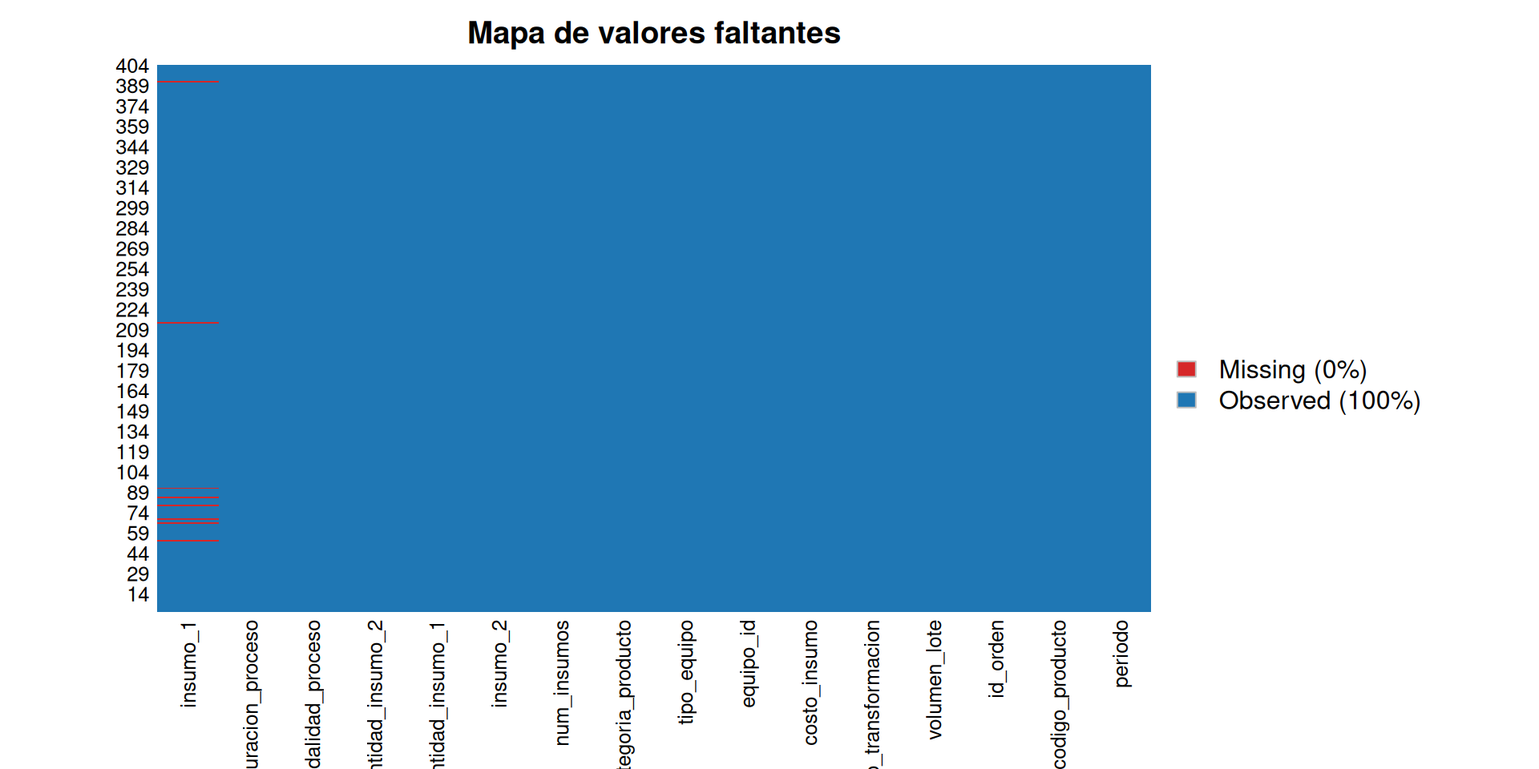
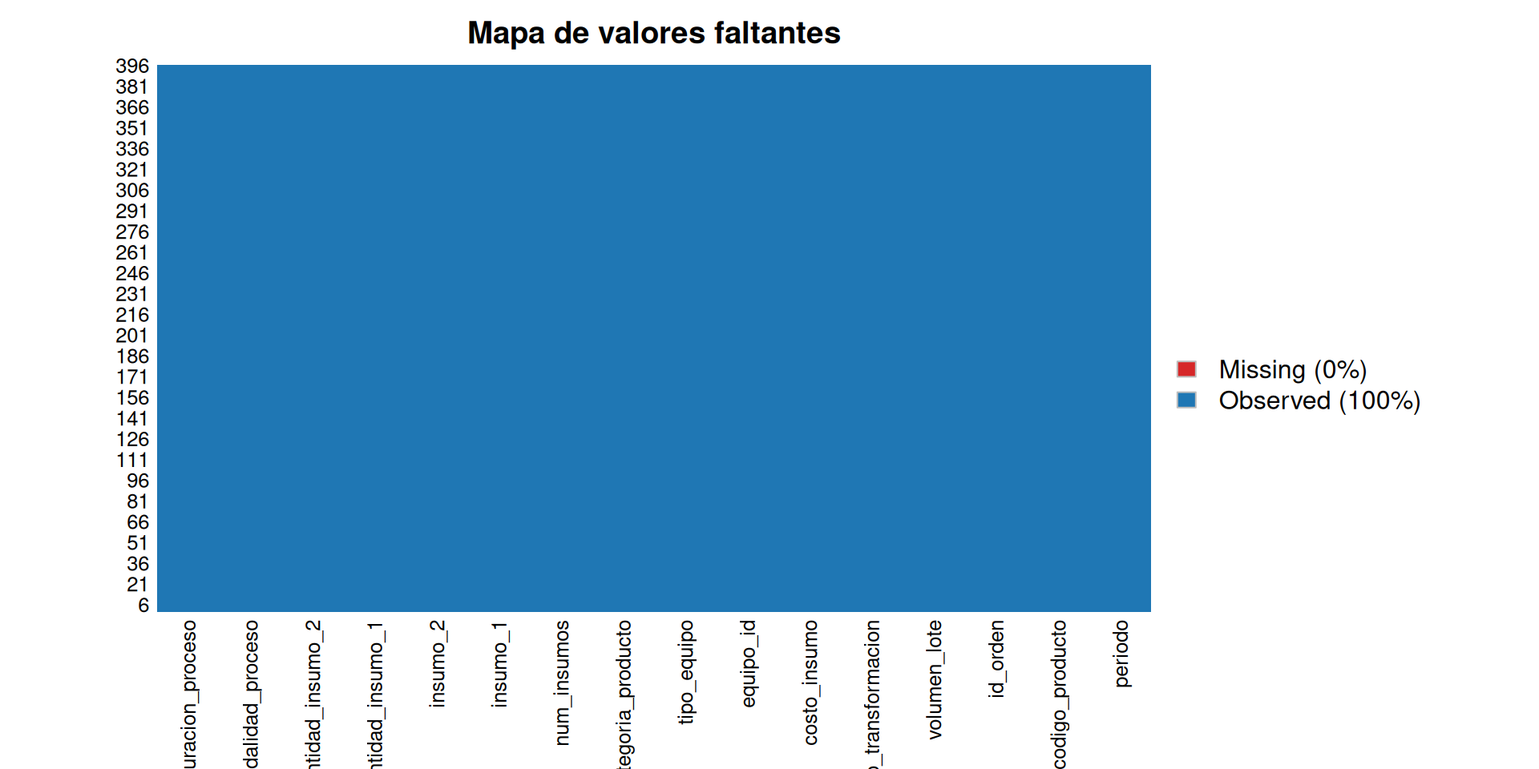
lunes

diff --git a/docs/metodologia.html b/docs/metodologia.html
@@ -181,8 +181,8 @@ div.csl-indent {
 <li class="chapter" data-level="4.2.1" data-path="metodologia.html"><a href="metodologia.html#carga-del-conjunto-de-datos"><i class="fa fa-check"></i><b>4.2.1</b> Carga del conjunto de datos</a></li>
 <li class="chapter" data-level="4.2.2" data-path="metodologia.html"><a href="metodologia.html#verificaci%C3%B3n-de-la-lectura"><i class="fa fa-check"></i><b>4.2.2</b> Verificación de la lectura</a></li>
 <li class="chapter" data-level="4.2.3" data-path="metodologia.html"><a href="metodologia.html#conversi%C3%B3n-de-tipos"><i class="fa fa-check"></i><b>4.2.3</b> Conversión de tipos</a></li>
-<li class="chapter" data-level="4.2.4" data-path="metodologia.html"><a href="metodologia.html#identificaci%C3%B3n-de-valores-faltantes"><i class="fa fa-check"></i><b>4.2.4</b> Identificación de valores faltantes</a></li>
-<li class="chapter" data-level="4.2.5" data-path="metodologia.html"><a href="metodologia.html#eliminaci%C3%B3n-de-errores-de-digitaci%C3%B3n-confirmados"><i class="fa fa-check"></i><b>4.2.5</b> Eliminación de errores de digitación confirmados</a></li>
+<li class="chapter" data-level="4.2.4" data-path="metodologia.html"><a href="metodologia.html#eliminaci%C3%B3n-de-errores-de-digitaci%C3%B3n-confirmados"><i class="fa fa-check"></i><b>4.2.4</b> Eliminación de errores de digitación confirmados</a></li>
+<li class="chapter" data-level="4.2.5" data-path="metodologia.html"><a href="metodologia.html#identificaci%C3%B3n-de-valores-faltantes"><i class="fa fa-check"></i><b>4.2.5</b> Identificación de valores faltantes</a></li>
 <li class="chapter" data-level="4.2.6" data-path="metodologia.html"><a href="metodologia.html#advertencias-sobre-inconsistencias-estructurales"><i class="fa fa-check"></i><b>4.2.6</b> Advertencias sobre inconsistencias estructurales</a></li>
 </ul></li>
 </ul></li>
@@ -230,7 +230,7 @@ div.csl-indent {
 <h1><span class="header-section-number">Capítulo 4</span> Metodología<a href="metodologia.html#metodologia" class="anchor-section" aria-label="Anchor link to header"></a></h1>
 <div id="diseño-del-estudio" class="section level2 hasAnchor" number="4.1">
 <h2><span class="header-section-number">4.1</span> Diseño del estudio<a href="metodologia.html#dise%C3%B1o-del-estudio" class="anchor-section" aria-label="Anchor link to header"></a></h2>
-<p>Este trabajo corresponde a un <strong>estudio observacional, retrospectivo y transversal</strong> sobre el proceso productivo de cápsulas duras de una empresa farmacéutica colombiana. Es observacional porque no se manipulan variables sobre el proceso; retrospectivo porque utiliza registros generados durante operaciones ya ejecutadas; y transversal porque captura información de un período acotado sin seguimiento longitudinal de unidades individuales.</p>
+<p>Este trabajo corresponde a un <strong>estudio observacional, retrospectivo y transversal</strong> sobre el proceso productivo de una empresa farmacéutica colombiana. Es observacional porque no se manipulan variables sobre el proceso; retrospectivo porque utiliza registros generados durante operaciones ya ejecutadas; y transversal porque captura información de un período acotado sin seguimiento longitudinal de unidades individuales.</p>
 <p>La muestra está conformada por 404 órdenes de producción registradas en el sistema ERP durante el período de estudio, extraídas mediante consultas SQL sobre las tablas transaccionales de órdenes, consumos y tiempos, junto con la tabla de costos por período y el maestro de productos. La consolidación se realizó en Excel y posteriormente se exportó a formato CSV para garantizar reproducibilidad y trazabilidad. Las 404 órdenes constituyen una muestra representativa del proceso productivo, en la medida en que cubren la variedad de productos, equipos, modalidades y tamaños de lote habituales del proceso.</p>
 <p><strong>Limitaciones conocidas del dataset:</strong></p>
 <ul>
@@ -240,14 +240,13 @@ div.csl-indent {
 <li><strong>Base de valoración:</strong> los costos se expresan en unidades monetarias por producto, calculados según la tarifa de costeo del período reportado.</li>
 </ul>
 <p><strong>Aspectos éticos y de confidencialidad.</strong> Los datos provienen de operaciones industriales reales y contienen información sensible para la empresa. Por esta razón, los identificadores de producto, máquina e insumo fueron anonimizados en origen mediante codificación alfanumérica que preserva la estructura analítica sin revelar identidades comerciales.</p>
-<p><strong>Tratamiento de valores atípicos.</strong> El presente capítulo aborda únicamente la limpieza de errores de digitación confirmados a priori con el área de operaciones, correspondientes a registros con <code>num_insumos = 0</code>. La detección e interpretación de valores atípicos estadísticos se realiza en el capítulo de análisis exploratorio, con base en boxplots y estadísticos robustos (rango intercuartílico). La decisión final sobre retención, eliminación o análisis separado de dichos valores se toma tras consulta con el área de operaciones, que permite distinguir errores de registro, eventos excepcionales y variabilidad legítima del proceso.</p>
 <p><strong>Software.</strong> Los análisis se realizan en R versión 4 o superior, con los paquetes <code>tidyverse</code> para manipulación y visualización, <code>Amelia</code> para diagnóstico de valores faltantes, <code>janitor</code> como guardia defensiva en limpieza de nombres, <code>kableExtra</code> para presentación de tablas, y <code>patchwork</code> y <code>gridExtra</code> para composición de gráficos. Todos los análisis son completamente reproducibles a partir del código fuente disponible en el repositorio.</p>
 </div>
 <div id="extracción-transformación-y-carga-etl" class="section level2 hasAnchor" number="4.2">
 <h2><span class="header-section-number">4.2</span> Extracción, transformación y carga (ETL)<a href="metodologia.html#extracci%C3%B3n-transformaci%C3%B3n-y-carga-etl" class="anchor-section" aria-label="Anchor link to header"></a></h2>
 <div id="carga-del-conjunto-de-datos" class="section level3 hasAnchor" number="4.2.1">
 <h3><span class="header-section-number">4.2.1</span> Carga del conjunto de datos<a href="metodologia.html#carga-del-conjunto-de-datos" class="anchor-section" aria-label="Anchor link to header"></a></h3>
-<p>El archivo CSV exportado desde el consolidado Excel utiliza punto y coma (<code>;</code>) como separador de columnas y punto (<code>.</code>) como separador decimal. Dado que <code>read_csv2</code> asume coma como decimal y <code>read_csv</code> asume coma como separador, se utiliza <code>read_delim</code> con especificación explícita de ambos parámetros.</p>
+<p>El archivo CSV exportado desde el consolidado Excel utiliza punto y coma (<code>;</code>) como separador de columnas y punto (<code>.</code>) como separador decimal.</p>
 <div class="sourceCode" id="cb1"><pre class="sourceCode r"><code class="sourceCode r"><span id="cb1-1"><a href="metodologia.html#cb1-1" tabindex="-1"></a><span class="fu">library</span>(tidyverse)</span>
 <span id="cb1-2"><a href="metodologia.html#cb1-2" tabindex="-1"></a><span class="fu">library</span>(janitor)</span>
 <span id="cb1-3"><a href="metodologia.html#cb1-3" tabindex="-1"></a><span class="fu">library</span>(Amelia)</span>
@@ -320,11 +319,16 @@ div.csl-indent {
 ##   ..   duracion_proceso = col_double()
 ##   .. )
 ##  - attr(*, &quot;problems&quot;)=&lt;externalptr&gt;</code></pre>
-<p>El conjunto de datos contiene 404 órdenes de producción y 16 variables, conforme a la definición presentada en el capítulo del diccionario de datos. Los costos <code>costo_transformacion</code> y <code>costo_insumo</code>, así como las cantidades de insumo, se leyeron correctamente como numéricos de tipo <code>double</code>. En la siguiente etapa se ajustan los tipos para que las variables categóricas reflejen su naturaleza estadística real.</p>
+<p>El conjunto de datos contiene 404 órdenes de producción y 16 variables, conforme a la definición presentada en el capítulo del diccionario de datos. Los costos <code>costo_transformacion</code> y <code>costo_insumo</code>, así como las cantidades de insumo, se leyeron correctamente como numéricos de tipo <code>double</code>. En la siguiente etapa se ajustan los tipos para que las variables categóricas reflejen su naturaleza estadística real.
+El significado, tipo analítico, unidad de medida y rol de cada una de las 16 variables se documenta en detalle en el siguiente capítulo.</p>
 </div>
 <div id="conversión-de-tipos" class="section level3 hasAnchor" number="4.2.3">
 <h3><span class="header-section-number">4.2.3</span> Conversión de tipos<a href="metodologia.html#conversi%C3%B3n-de-tipos" class="anchor-section" aria-label="Anchor link to header"></a></h3>
-<p>La inspección de la estructura revela que varias variables están almacenadas con tipos que no corresponden a su naturaleza analítica. La variable <code>periodo</code> viene como entero <code>YYYYMM</code>; en análisis posteriores se podrá convertir a fecha para análisis de temporalidad, pero en el presente estudio se conserva como texto, dado que no se realizarán análisis de series de tiempo. La variable <code>num_insumos</code>, restringida a los valores 0, 1 y 2, se trata como factor ordenado. Las variables <code>tipo_equipo</code>, <code>categoria_producto</code>, <code>equipo_id</code>, <code>modalidad_proceso</code>, <code>insumo_1</code> e <code>insumo_2</code> se convierten a factor para los análisis inferenciales posteriores. La variable <code>insumo_2</code> requiere además una recodificación explícita de los valores faltantes a la categoría <code>sin_segundo_insumo</code>, dado que el <code>NA</code> no representa un dato perdido sino una característica estructural de la orden (cuando <code>num_insumos &lt; 2</code>).</p>
+<p>La inspección de la estructura revela que varias variables están almacenadas con tipos que no corresponden a su naturaleza analítica.
+- La variable <code>periodo</code> viene como entero <code>YYYYMM</code>; en análisis posteriores se podrá convertir a fecha para análisis de temporalidad, pero en el presente estudio se conserva como texto, dado que no se realizarán análisis de series de tiempo.
+- La variable <code>num_insumos</code>, restringida a los valores 0, 1 y 2, se trata como factor ordenado.
+- Las variables <code>tipo_equipo</code>, <code>categoria_producto</code>, <code>equipo_id</code>, <code>modalidad_proceso</code>, <code>insumo_1</code> e <code>insumo_2</code> se convierten a factor para los análisis inferenciales posteriores.
+- La variable <code>insumo_2</code> requiere además una recodificación explícita de los valores faltantes a la categoría <code>sin_segundo_insumo</code>, dado que el <code>NA</code> no representa un dato perdido sino una característica estructural de la orden (cuando <code>num_insumos &lt; 2</code>).</p>
 <div class="sourceCode" id="cb10"><pre class="sourceCode r"><code class="sourceCode r"><span id="cb10-1"><a href="metodologia.html#cb10-1" tabindex="-1"></a>datos <span class="ot">&lt;-</span> datos <span class="sc">%&gt;%</span></span>
 <span id="cb10-2"><a href="metodologia.html#cb10-2" tabindex="-1"></a>  <span class="fu">mutate</span>(</span>
 <span id="cb10-3"><a href="metodologia.html#cb10-3" tabindex="-1"></a>    <span class="at">periodo =</span> <span class="fu">as.character</span>(periodo),</span>
@@ -356,11 +360,34 @@ div.csl-indent {
 ##  $ modalidad_proceso   : Factor w/ 3 levels &quot;X&quot;,&quot;Y&quot;,&quot;Z&quot;: 1 2 2 1 1 1 1 1 2 1 ...
 ##  $ duracion_proceso    : num [1:404] 300 98 100 62 91 ...</code></pre>
 </div>
-<div id="identificación-de-valores-faltantes" class="section level3 hasAnchor" number="4.2.4">
-<h3><span class="header-section-number">4.2.4</span> Identificación de valores faltantes<a href="metodologia.html#identificaci%C3%B3n-de-valores-faltantes" class="anchor-section" aria-label="Anchor link to header"></a></h3>
-<p>Identificamos los valores faltantes por columna mediante dos enfoques complementarios. El primero entrega el conteo absoluto por variable; el segundo proporciona una visualización del patrón de ausencias.</p>
+<div id="eliminación-de-errores-de-digitación-confirmados" class="section level3 hasAnchor" number="4.2.4">
+<h3><span class="header-section-number">4.2.4</span> Eliminación de errores de digitación confirmados<a href="metodologia.html#eliminaci%C3%B3n-de-errores-de-digitaci%C3%B3n-confirmados" class="anchor-section" aria-label="Anchor link to header"></a></h3>
+<p>Durante la revisión preliminar del dataset se identificaron registros con <code>num_insumos = 0</code>. Tras consulta con el área de operaciones, se confirmó que se trata de errores de digitación en el registro del ERP: toda orden de producción real requiere al menos un insumo activo, por lo que <code>num_insumos = 0</code> no corresponde a una configuración operativa válida del proceso. En consecuencia, estos registros se eliminan antes del análisis exploratorio.</p>
+<p>Primero cuantificamos cuántos casos afectan:</p>
 <div class="sourceCode" id="cb12"><pre class="sourceCode r"><code class="sourceCode r"><span id="cb12-1"><a href="metodologia.html#cb12-1" tabindex="-1"></a>datos <span class="sc">%&gt;%</span></span>
-<span id="cb12-2"><a href="metodologia.html#cb12-2" tabindex="-1"></a>  <span class="fu">summarise</span>(<span class="fu">across</span>(<span class="fu">everything</span>(), <span class="sc">~</span> <span class="fu">sum</span>(<span class="fu">is.na</span>(.)), <span class="at">.names =</span> <span class="st">&quot;NA_{.col}&quot;</span>))</span></code></pre></div>
+<span id="cb12-2"><a href="metodologia.html#cb12-2" tabindex="-1"></a>  <span class="fu">count</span>(num_insumos) <span class="sc">%&gt;%</span></span>
+<span id="cb12-3"><a href="metodologia.html#cb12-3" tabindex="-1"></a>  <span class="fu">mutate</span>(<span class="at">porcentaje =</span> <span class="fu">round</span>(n <span class="sc">/</span> <span class="fu">sum</span>(n) <span class="sc">*</span> <span class="dv">100</span>, <span class="dv">2</span>))</span></code></pre></div>
+<pre><code>## # A tibble: 3 × 3
+##   num_insumos     n porcentaje
+##   &lt;ord&gt;       &lt;int&gt;      &lt;dbl&gt;
+## 1 0               8       1.98
+## 2 1             271      67.1 
+## 3 2             125      30.9</code></pre>
+<p>Se identificaron 8 órdenes con número de insumos en cero (2% del total de registros) .</p>
+<p>A continuación se eliminan los registros con <code>num_insumos = 0</code>:</p>
+<div class="sourceCode" id="cb14"><pre class="sourceCode r"><code class="sourceCode r"><span id="cb14-1"><a href="metodologia.html#cb14-1" tabindex="-1"></a>datos <span class="sc">%&gt;%</span></span>
+<span id="cb14-2"><a href="metodologia.html#cb14-2" tabindex="-1"></a>  <span class="fu">filter</span>(num_insumos <span class="sc">!=</span> <span class="dv">0</span>) <span class="sc">%&gt;%</span></span>
+<span id="cb14-3"><a href="metodologia.html#cb14-3" tabindex="-1"></a>  <span class="fu">mutate</span>(<span class="at">num_insumos =</span> <span class="fu">droplevels</span>(num_insumos)) <span class="ot">-&gt;</span> datos</span>
+<span id="cb14-4"><a href="metodologia.html#cb14-4" tabindex="-1"></a></span>
+<span id="cb14-5"><a href="metodologia.html#cb14-5" tabindex="-1"></a><span class="fu">dim</span>(datos)</span></code></pre></div>
+<pre><code>## [1] 396  16</code></pre>
+<p>Después de la eliminación, el dataset analítico queda conformado por 396 órdenes con al menos un insumo registrado.</p>
+</div>
+<div id="identificación-de-valores-faltantes" class="section level3 hasAnchor" number="4.2.5">
+<h3><span class="header-section-number">4.2.5</span> Identificación de valores faltantes<a href="metodologia.html#identificaci%C3%B3n-de-valores-faltantes" class="anchor-section" aria-label="Anchor link to header"></a></h3>
+<p>Identificamos los valores faltantes por columna mediante dos enfoques complementarios. El primero entrega el conteo absoluto por variable; el segundo proporciona una visualización del patrón de ausencias.</p>
+<div class="sourceCode" id="cb16"><pre class="sourceCode r"><code class="sourceCode r"><span id="cb16-1"><a href="metodologia.html#cb16-1" tabindex="-1"></a>datos <span class="sc">%&gt;%</span></span>
+<span id="cb16-2"><a href="metodologia.html#cb16-2" tabindex="-1"></a>  <span class="fu">summarise</span>(<span class="fu">across</span>(<span class="fu">everything</span>(), <span class="sc">~</span> <span class="fu">sum</span>(<span class="fu">is.na</span>(.)), <span class="at">.names =</span> <span class="st">&quot;NA_{.col}&quot;</span>))</span></code></pre></div>
 <pre><code>## # A tibble: 1 × 16
 ##   NA_periodo NA_codigo_producto NA_id_orden NA_volumen_lote
 ##        &lt;int&gt;              &lt;int&gt;       &lt;int&gt;           &lt;int&gt;
@@ -370,32 +397,10 @@ div.csl-indent {
 ## #   NA_num_insumos &lt;int&gt;, NA_insumo_1 &lt;int&gt;, NA_insumo_2 &lt;int&gt;,
 ## #   NA_cantidad_insumo_1 &lt;int&gt;, NA_cantidad_insumo_2 &lt;int&gt;,
 ## #   NA_modalidad_proceso &lt;int&gt;, NA_duracion_proceso &lt;int&gt;</code></pre>
-<div class="sourceCode" id="cb14"><pre class="sourceCode r"><code class="sourceCode r"><span id="cb14-1"><a href="metodologia.html#cb14-1" tabindex="-1"></a><span class="fu">missmap</span>(datos, <span class="at">main =</span> <span class="st">&quot;Mapa de valores faltantes&quot;</span>, </span>
-<span id="cb14-2"><a href="metodologia.html#cb14-2" tabindex="-1"></a>        <span class="at">col =</span> <span class="fu">c</span>(<span class="st">&quot;#d62728&quot;</span>, <span class="st">&quot;#1f77b4&quot;</span>), <span class="at">legend =</span> <span class="cn">TRUE</span>)</span></code></pre></div>
+<div class="sourceCode" id="cb18"><pre class="sourceCode r"><code class="sourceCode r"><span id="cb18-1"><a href="metodologia.html#cb18-1" tabindex="-1"></a><span class="fu">missmap</span>(datos, <span class="at">main =</span> <span class="st">&quot;Mapa de valores faltantes&quot;</span>, </span>
+<span id="cb18-2"><a href="metodologia.html#cb18-2" tabindex="-1"></a>        <span class="at">col =</span> <span class="fu">c</span>(<span class="st">&quot;#d62728&quot;</span>, <span class="st">&quot;#1f77b4&quot;</span>), <span class="at">legend =</span> <span class="cn">TRUE</span>)</span></code></pre></div>
 <p><img src="libro-maestria-estadistica-aplicada_files/figure-html/na-mapa-1.png" alt="" width="90%" style="display: block; margin: auto;" /></p>
 <p>El conteo y el mapa de ausencias permiten verificar si existen valores faltantes que requieran tratamiento. Conforme a las consultas SQL de origen, los únicos <code>NA</code> legítimos corresponden a <code>insumo_2</code> cuando <code>num_insumos &lt; 2</code>, los cuales fueron recodificados en la etapa anterior como una categoría explícita.</p>
-</div>
-<div id="eliminación-de-errores-de-digitación-confirmados" class="section level3 hasAnchor" number="4.2.5">
-<h3><span class="header-section-number">4.2.5</span> Eliminación de errores de digitación confirmados<a href="metodologia.html#eliminaci%C3%B3n-de-errores-de-digitaci%C3%B3n-confirmados" class="anchor-section" aria-label="Anchor link to header"></a></h3>
-<p>Durante la revisión preliminar del dataset se identificaron registros con <code>num_insumos = 0</code>. Tras consulta con el área de operaciones, se confirmó que se trata de errores de digitación en el registro del ERP: toda orden de producción real requiere al menos un insumo activo, por lo que <code>num_insumos = 0</code> no corresponde a una configuración operativa válida del proceso. En consecuencia, estos registros se eliminan antes del análisis exploratorio.</p>
-<p>Primero cuantificamos cuántos casos afectan:</p>
-<div class="sourceCode" id="cb15"><pre class="sourceCode r"><code class="sourceCode r"><span id="cb15-1"><a href="metodologia.html#cb15-1" tabindex="-1"></a>datos <span class="sc">%&gt;%</span></span>
-<span id="cb15-2"><a href="metodologia.html#cb15-2" tabindex="-1"></a>  <span class="fu">count</span>(num_insumos) <span class="sc">%&gt;%</span></span>
-<span id="cb15-3"><a href="metodologia.html#cb15-3" tabindex="-1"></a>  <span class="fu">mutate</span>(<span class="at">porcentaje =</span> <span class="fu">round</span>(n <span class="sc">/</span> <span class="fu">sum</span>(n) <span class="sc">*</span> <span class="dv">100</span>, <span class="dv">2</span>))</span></code></pre></div>
-<pre><code>## # A tibble: 3 × 3
-##   num_insumos     n porcentaje
-##   &lt;ord&gt;       &lt;int&gt;      &lt;dbl&gt;
-## 1 0               8       1.98
-## 2 1             271      67.1 
-## 3 2             125      30.9</code></pre>
-<p>A continuación se eliminan los registros con <code>num_insumos = 0</code>:</p>
-<div class="sourceCode" id="cb17"><pre class="sourceCode r"><code class="sourceCode r"><span id="cb17-1"><a href="metodologia.html#cb17-1" tabindex="-1"></a>datos <span class="sc">%&gt;%</span></span>
-<span id="cb17-2"><a href="metodologia.html#cb17-2" tabindex="-1"></a>  <span class="fu">filter</span>(num_insumos <span class="sc">!=</span> <span class="dv">0</span>) <span class="sc">%&gt;%</span></span>
-<span id="cb17-3"><a href="metodologia.html#cb17-3" tabindex="-1"></a>  <span class="fu">mutate</span>(<span class="at">num_insumos =</span> <span class="fu">droplevels</span>(num_insumos)) <span class="ot">-&gt;</span> datos</span>
-<span id="cb17-4"><a href="metodologia.html#cb17-4" tabindex="-1"></a></span>
-<span id="cb17-5"><a href="metodologia.html#cb17-5" tabindex="-1"></a><span class="fu">dim</span>(datos)</span></code></pre></div>
-<pre><code>## [1] 396  16</code></pre>
-<p>Después de la eliminación, el dataset analítico queda conformado por las órdenes con al menos un insumo registrado. La función <code>droplevels()</code> elimina el nivel <code>0</code> del factor ordenado para evitar que aparezca vacío en tablas y gráficos posteriores.</p>
 </div>
 <div id="advertencias-sobre-inconsistencias-estructurales" class="section level3 hasAnchor" number="4.2.6">
 <h3><span class="header-section-number">4.2.6</span> Advertencias sobre inconsistencias estructurales<a href="metodologia.html#advertencias-sobre-inconsistencias-estructurales" class="anchor-section" aria-label="Anchor link to header"></a></h3>

diff --git a/docs/404.html b/docs/404.html
@@ -181,8 +181,8 @@ div.csl-indent {
 <li class="chapter" data-level="4.2.1" data-path="metodologia.html"><a href="metodologia.html#carga-del-conjunto-de-datos"><i class="fa fa-check"></i><b>4.2.1</b> Carga del conjunto de datos</a></li>
 <li class="chapter" data-level="4.2.2" data-path="metodologia.html"><a href="metodologia.html#verificaci%C3%B3n-de-la-lectura"><i class="fa fa-check"></i><b>4.2.2</b> Verificación de la lectura</a></li>
 <li class="chapter" data-level="4.2.3" data-path="metodologia.html"><a href="metodologia.html#conversi%C3%B3n-de-tipos"><i class="fa fa-check"></i><b>4.2.3</b> Conversión de tipos</a></li>
-<li class="chapter" data-level="4.2.4" data-path="metodologia.html"><a href="metodologia.html#identificaci%C3%B3n-de-valores-faltantes"><i class="fa fa-check"></i><b>4.2.4</b> Identificación de valores faltantes</a></li>
-<li class="chapter" data-level="4.2.5" data-path="metodologia.html"><a href="metodologia.html#eliminaci%C3%B3n-de-errores-de-digitaci%C3%B3n-confirmados"><i class="fa fa-check"></i><b>4.2.5</b> Eliminación de errores de digitación confirmados</a></li>
+<li class="chapter" data-level="4.2.4" data-path="metodologia.html"><a href="metodologia.html#eliminaci%C3%B3n-de-errores-de-digitaci%C3%B3n-confirmados"><i class="fa fa-check"></i><b>4.2.4</b> Eliminación de errores de digitación confirmados</a></li>
+<li class="chapter" data-level="4.2.5" data-path="metodologia.html"><a href="metodologia.html#identificaci%C3%B3n-de-valores-faltantes"><i class="fa fa-check"></i><b>4.2.5</b> Identificación de valores faltantes</a></li>
 <li class="chapter" data-level="4.2.6" data-path="metodologia.html"><a href="metodologia.html#advertencias-sobre-inconsistencias-estructurales"><i class="fa fa-check"></i><b>4.2.6</b> Advertencias sobre inconsistencias estructurales</a></li>
 </ul></li>
 </ul></li>

diff --git a/docs/análisis-exploratorio.html b/docs/análisis-exploratorio.html
@@ -181,8 +181,8 @@ div.csl-indent {
 <li class="chapter" data-level="4.2.1" data-path="metodologia.html"><a href="metodologia.html#carga-del-conjunto-de-datos"><i class="fa fa-check"></i><b>4.2.1</b> Carga del conjunto de datos</a></li>
 <li class="chapter" data-level="4.2.2" data-path="metodologia.html"><a href="metodologia.html#verificaci%C3%B3n-de-la-lectura"><i class="fa fa-check"></i><b>4.2.2</b> Verificación de la lectura</a></li>
 <li class="chapter" data-level="4.2.3" data-path="metodologia.html"><a href="metodologia.html#conversi%C3%B3n-de-tipos"><i class="fa fa-check"></i><b>4.2.3</b> Conversión de tipos</a></li>
-<li class="chapter" data-level="4.2.4" data-path="metodologia.html"><a href="metodologia.html#identificaci%C3%B3n-de-valores-faltantes"><i class="fa fa-check"></i><b>4.2.4</b> Identificación de valores faltantes</a></li>
-<li class="chapter" data-level="4.2.5" data-path="metodologia.html"><a href="metodologia.html#eliminaci%C3%B3n-de-errores-de-digitaci%C3%B3n-confirmados"><i class="fa fa-check"></i><b>4.2.5</b> Eliminación de errores de digitación confirmados</a></li>
+<li class="chapter" data-level="4.2.4" data-path="metodologia.html"><a href="metodologia.html#eliminaci%C3%B3n-de-errores-de-digitaci%C3%B3n-confirmados"><i class="fa fa-check"></i><b>4.2.4</b> Eliminación de errores de digitación confirmados</a></li>
+<li class="chapter" data-level="4.2.5" data-path="metodologia.html"><a href="metodologia.html#identificaci%C3%B3n-de-valores-faltantes"><i class="fa fa-check"></i><b>4.2.5</b> Identificación de valores faltantes</a></li>
 <li class="chapter" data-level="4.2.6" data-path="metodologia.html"><a href="metodologia.html#advertencias-sobre-inconsistencias-estructurales"><i class="fa fa-check"></i><b>4.2.6</b> Advertencias sobre inconsistencias estructurales</a></li>
 </ul></li>
 </ul></li>

diff --git a/docs/bibliografía.html b/docs/bibliografía.html
@@ -181,8 +181,8 @@ div.csl-indent {
 <li class="chapter" data-level="4.2.1" data-path="metodologia.html"><a href="metodologia.html#carga-del-conjunto-de-datos"><i class="fa fa-check"></i><b>4.2.1</b> Carga del conjunto de datos</a></li>
 <li class="chapter" data-level="4.2.2" data-path="metodologia.html"><a href="metodologia.html#verificaci%C3%B3n-de-la-lectura"><i class="fa fa-check"></i><b>4.2.2</b> Verificación de la lectura</a></li>
 <li class="chapter" data-level="4.2.3" data-path="metodologia.html"><a href="metodologia.html#conversi%C3%B3n-de-tipos"><i class="fa fa-check"></i><b>4.2.3</b> Conversión de tipos</a></li>
-<li class="chapter" data-level="4.2.4" data-path="metodologia.html"><a href="metodologia.html#identificaci%C3%B3n-de-valores-faltantes"><i class="fa fa-check"></i><b>4.2.4</b> Identificación de valores faltantes</a></li>
-<li class="chapter" data-level="4.2.5" data-path="metodologia.html"><a href="metodologia.html#eliminaci%C3%B3n-de-errores-de-digitaci%C3%B3n-confirmados"><i class="fa fa-check"></i><b>4.2.5</b> Eliminación de errores de digitación confirmados</a></li>
+<li class="chapter" data-level="4.2.4" data-path="metodologia.html"><a href="metodologia.html#eliminaci%C3%B3n-de-errores-de-digitaci%C3%B3n-confirmados"><i class="fa fa-check"></i><b>4.2.4</b> Eliminación de errores de digitación confirmados</a></li>
+<li class="chapter" data-level="4.2.5" data-path="metodologia.html"><a href="metodologia.html#identificaci%C3%B3n-de-valores-faltantes"><i class="fa fa-check"></i><b>4.2.5</b> Identificación de valores faltantes</a></li>
 <li class="chapter" data-level="4.2.6" data-path="metodologia.html"><a href="metodologia.html#advertencias-sobre-inconsistencias-estructurales"><i class="fa fa-check"></i><b>4.2.6</b> Advertencias sobre inconsistencias estructurales</a></li>
 </ul></li>
 </ul></li>

diff --git a/docs/conclusión.html b/docs/conclusión.html
@@ -181,8 +181,8 @@ div.csl-indent {
 <li class="chapter" data-level="4.2.1" data-path="metodologia.html"><a href="metodologia.html#carga-del-conjunto-de-datos"><i class="fa fa-check"></i><b>4.2.1</b> Carga del conjunto de datos</a></li>
 <li class="chapter" data-level="4.2.2" data-path="metodologia.html"><a href="metodologia.html#verificaci%C3%B3n-de-la-lectura"><i class="fa fa-check"></i><b>4.2.2</b> Verificación de la lectura</a></li>
 <li class="chapter" data-level="4.2.3" data-path="metodologia.html"><a href="metodologia.html#conversi%C3%B3n-de-tipos"><i class="fa fa-check"></i><b>4.2.3</b> Conversión de tipos</a></li>
-<li class="chapter" data-level="4.2.4" data-path="metodologia.html"><a href="metodologia.html#identificaci%C3%B3n-de-valores-faltantes"><i class="fa fa-check"></i><b>4.2.4</b> Identificación de valores faltantes</a></li>
-<li class="chapter" data-level="4.2.5" data-path="metodologia.html"><a href="metodologia.html#eliminaci%C3%B3n-de-errores-de-digitaci%C3%B3n-confirmados"><i class="fa fa-check"></i><b>4.2.5</b> Eliminación de errores de digitación confirmados</a></li>
+<li class="chapter" data-level="4.2.4" data-path="metodologia.html"><a href="metodologia.html#eliminaci%C3%B3n-de-errores-de-digitaci%C3%B3n-confirmados"><i class="fa fa-check"></i><b>4.2.4</b> Eliminación de errores de digitación confirmados</a></li>
+<li class="chapter" data-level="4.2.5" data-path="metodologia.html"><a href="metodologia.html#identificaci%C3%B3n-de-valores-faltantes"><i class="fa fa-check"></i><b>4.2.5</b> Identificación de valores faltantes</a></li>
 <li class="chapter" data-level="4.2.6" data-path="metodologia.html"><a href="metodologia.html#advertencias-sobre-inconsistencias-estructurales"><i class="fa fa-check"></i><b>4.2.6</b> Advertencias sobre inconsistencias estructurales</a></li>
 </ul></li>
 </ul></li>

diff --git a/docs/diccionario-de-campos.html b/docs/diccionario-de-campos.html
@@ -181,8 +181,8 @@ div.csl-indent {
 <li class="chapter" data-level="4.2.1" data-path="metodologia.html"><a href="metodologia.html#carga-del-conjunto-de-datos"><i class="fa fa-check"></i><b>4.2.1</b> Carga del conjunto de datos</a></li>
 <li class="chapter" data-level="4.2.2" data-path="metodologia.html"><a href="metodologia.html#verificaci%C3%B3n-de-la-lectura"><i class="fa fa-check"></i><b>4.2.2</b> Verificación de la lectura</a></li>
 <li class="chapter" data-level="4.2.3" data-path="metodologia.html"><a href="metodologia.html#conversi%C3%B3n-de-tipos"><i class="fa fa-check"></i><b>4.2.3</b> Conversión de tipos</a></li>
-<li class="chapter" data-level="4.2.4" data-path="metodologia.html"><a href="metodologia.html#identificaci%C3%B3n-de-valores-faltantes"><i class="fa fa-check"></i><b>4.2.4</b> Identificación de valores faltantes</a></li>
-<li class="chapter" data-level="4.2.5" data-path="metodologia.html"><a href="metodologia.html#eliminaci%C3%B3n-de-errores-de-digitaci%C3%B3n-confirmados"><i class="fa fa-check"></i><b>4.2.5</b> Eliminación de errores de digitación confirmados</a></li>
+<li class="chapter" data-level="4.2.4" data-path="metodologia.html"><a href="metodologia.html#eliminaci%C3%B3n-de-errores-de-digitaci%C3%B3n-confirmados"><i class="fa fa-check"></i><b>4.2.4</b> Eliminación de errores de digitación confirmados</a></li>
+<li class="chapter" data-level="4.2.5" data-path="metodologia.html"><a href="metodologia.html#identificaci%C3%B3n-de-valores-faltantes"><i class="fa fa-check"></i><b>4.2.5</b> Identificación de valores faltantes</a></li>
 <li class="chapter" data-level="4.2.6" data-path="metodologia.html"><a href="metodologia.html#advertencias-sobre-inconsistencias-estructurales"><i class="fa fa-check"></i><b>4.2.6</b> Advertencias sobre inconsistencias estructurales</a></li>
 </ul></li>
 </ul></li>

diff --git a/docs/index.html b/docs/index.html
@@ -181,8 +181,8 @@ div.csl-indent {
 <li class="chapter" data-level="4.2.1" data-path="metodologia.html"><a href="metodologia.html#carga-del-conjunto-de-datos"><i class="fa fa-check"></i><b>4.2.1</b> Carga del conjunto de datos</a></li>
 <li class="chapter" data-level="4.2.2" data-path="metodologia.html"><a href="metodologia.html#verificaci%C3%B3n-de-la-lectura"><i class="fa fa-check"></i><b>4.2.2</b> Verificación de la lectura</a></li>
 <li class="chapter" data-level="4.2.3" data-path="metodologia.html"><a href="metodologia.html#conversi%C3%B3n-de-tipos"><i class="fa fa-check"></i><b>4.2.3</b> Conversión de tipos</a></li>
-<li class="chapter" data-level="4.2.4" data-path="metodologia.html"><a href="metodologia.html#identificaci%C3%B3n-de-valores-faltantes"><i class="fa fa-check"></i><b>4.2.4</b> Identificación de valores faltantes</a></li>
-<li class="chapter" data-level="4.2.5" data-path="metodologia.html"><a href="metodologia.html#eliminaci%C3%B3n-de-errores-de-digitaci%C3%B3n-confirmados"><i class="fa fa-check"></i><b>4.2.5</b> Eliminación de errores de digitación confirmados</a></li>
+<li class="chapter" data-level="4.2.4" data-path="metodologia.html"><a href="metodologia.html#eliminaci%C3%B3n-de-errores-de-digitaci%C3%B3n-confirmados"><i class="fa fa-check"></i><b>4.2.4</b> Eliminación de errores de digitación confirmados</a></li>
+<li class="chapter" data-level="4.2.5" data-path="metodologia.html"><a href="metodologia.html#identificaci%C3%B3n-de-valores-faltantes"><i class="fa fa-check"></i><b>4.2.5</b> Identificación de valores faltantes</a></li>
 <li class="chapter" data-level="4.2.6" data-path="metodologia.html"><a href="metodologia.html#advertencias-sobre-inconsistencias-estructurales"><i class="fa fa-check"></i><b>4.2.6</b> Advertencias sobre inconsistencias estructurales</a></li>
 </ul></li>
 </ul></li>

diff --git a/docs/introducción.html b/docs/introducción.html
@@ -181,8 +181,8 @@ div.csl-indent {
 <li class="chapter" data-level="4.2.1" data-path="metodologia.html"><a href="metodologia.html#carga-del-conjunto-de-datos"><i class="fa fa-check"></i><b>4.2.1</b> Carga del conjunto de datos</a></li>
 <li class="chapter" data-level="4.2.2" data-path="metodologia.html"><a href="metodologia.html#verificaci%C3%B3n-de-la-lectura"><i class="fa fa-check"></i><b>4.2.2</b> Verificación de la lectura</a></li>
 <li class="chapter" data-level="4.2.3" data-path="metodologia.html"><a href="metodologia.html#conversi%C3%B3n-de-tipos"><i class="fa fa-check"></i><b>4.2.3</b> Conversión de tipos</a></li>
-<li class="chapter" data-level="4.2.4" data-path="metodologia.html"><a href="metodologia.html#identificaci%C3%B3n-de-valores-faltantes"><i class="fa fa-check"></i><b>4.2.4</b> Identificación de valores faltantes</a></li>
-<li class="chapter" data-level="4.2.5" data-path="metodologia.html"><a href="metodologia.html#eliminaci%C3%B3n-de-errores-de-digitaci%C3%B3n-confirmados"><i class="fa fa-check"></i><b>4.2.5</b> Eliminación de errores de digitación confirmados</a></li>
+<li class="chapter" data-level="4.2.4" data-path="metodologia.html"><a href="metodologia.html#eliminaci%C3%B3n-de-errores-de-digitaci%C3%B3n-confirmados"><i class="fa fa-check"></i><b>4.2.4</b> Eliminación de errores de digitación confirmados</a></li>
+<li class="chapter" data-level="4.2.5" data-path="metodologia.html"><a href="metodologia.html#identificaci%C3%B3n-de-valores-faltantes"><i class="fa fa-check"></i><b>4.2.5</b> Identificación de valores faltantes</a></li>
 <li class="chapter" data-level="4.2.6" data-path="metodologia.html"><a href="metodologia.html#advertencias-sobre-inconsistencias-estructurales"><i class="fa fa-check"></i><b>4.2.6</b> Advertencias sobre inconsistencias estructurales</a></li>
 </ul></li>
 </ul></li>

diff --git a/docs/modelos.html b/docs/modelos.html
@@ -181,8 +181,8 @@ div.csl-indent {
 <li class="chapter" data-level="4.2.1" data-path="metodologia.html"><a href="metodologia.html#carga-del-conjunto-de-datos"><i class="fa fa-check"></i><b>4.2.1</b> Carga del conjunto de datos</a></li>
 <li class="chapter" data-level="4.2.2" data-path="metodologia.html"><a href="metodologia.html#verificaci%C3%B3n-de-la-lectura"><i class="fa fa-check"></i><b>4.2.2</b> Verificación de la lectura</a></li>
 <li class="chapter" data-level="4.2.3" data-path="metodologia.html"><a href="metodologia.html#conversi%C3%B3n-de-tipos"><i class="fa fa-check"></i><b>4.2.3</b> Conversión de tipos</a></li>
-<li class="chapter" data-level="4.2.4" data-path="metodologia.html"><a href="metodologia.html#identificaci%C3%B3n-de-valores-faltantes"><i class="fa fa-check"></i><b>4.2.4</b> Identificación de valores faltantes</a></li>
-<li class="chapter" data-level="4.2.5" data-path="metodologia.html"><a href="metodologia.html#eliminaci%C3%B3n-de-errores-de-digitaci%C3%B3n-confirmados"><i class="fa fa-check"></i><b>4.2.5</b> Eliminación de errores de digitación confirmados</a></li>
+<li class="chapter" data-level="4.2.4" data-path="metodologia.html"><a href="metodologia.html#eliminaci%C3%B3n-de-errores-de-digitaci%C3%B3n-confirmados"><i class="fa fa-check"></i><b>4.2.4</b> Eliminación de errores de digitación confirmados</a></li>
+<li class="chapter" data-level="4.2.5" data-path="metodologia.html"><a href="metodologia.html#identificaci%C3%B3n-de-valores-faltantes"><i class="fa fa-check"></i><b>4.2.5</b> Identificación de valores faltantes</a></li>
 <li class="chapter" data-level="4.2.6" data-path="metodologia.html"><a href="metodologia.html#advertencias-sobre-inconsistencias-estructurales"><i class="fa fa-check"></i><b>4.2.6</b> Advertencias sobre inconsistencias estructurales</a></li>
 </ul></li>
 </ul></li>

diff --git a/docs/objetivos.html b/docs/objetivos.html
@@ -181,8 +181,8 @@ div.csl-indent {
 <li class="chapter" data-level="4.2.1" data-path="metodologia.html"><a href="metodologia.html#carga-del-conjunto-de-datos"><i class="fa fa-check"></i><b>4.2.1</b> Carga del conjunto de datos</a></li>
 <li class="chapter" data-level="4.2.2" data-path="metodologia.html"><a href="metodologia.html#verificaci%C3%B3n-de-la-lectura"><i class="fa fa-check"></i><b>4.2.2</b> Verificación de la lectura</a></li>
 <li class="chapter" data-level="4.2.3" data-path="metodologia.html"><a href="metodologia.html#conversi%C3%B3n-de-tipos"><i class="fa fa-check"></i><b>4.2.3</b> Conversión de tipos</a></li>
-<li class="chapter" data-level="4.2.4" data-path="metodologia.html"><a href="metodologia.html#identificaci%C3%B3n-de-valores-faltantes"><i class="fa fa-check"></i><b>4.2.4</b> Identificación de valores faltantes</a></li>
-<li class="chapter" data-level="4.2.5" data-path="metodologia.html"><a href="metodologia.html#eliminaci%C3%B3n-de-errores-de-digitaci%C3%B3n-confirmados"><i class="fa fa-check"></i><b>4.2.5</b> Eliminación de errores de digitación confirmados</a></li>
+<li class="chapter" data-level="4.2.4" data-path="metodologia.html"><a href="metodologia.html#eliminaci%C3%B3n-de-errores-de-digitaci%C3%B3n-confirmados"><i class="fa fa-check"></i><b>4.2.4</b> Eliminación de errores de digitación confirmados</a></li>
+<li class="chapter" data-level="4.2.5" data-path="metodologia.html"><a href="metodologia.html#identificaci%C3%B3n-de-valores-faltantes"><i class="fa fa-check"></i><b>4.2.5</b> Identificación de valores faltantes</a></li>
 <li class="chapter" data-level="4.2.6" data-path="metodologia.html"><a href="metodologia.html#advertencias-sobre-inconsistencias-estructurales"><i class="fa fa-check"></i><b>4.2.6</b> Advertencias sobre inconsistencias estructurales</a></li>
 </ul></li>
 </ul></li>

diff --git a/docs/prefacio.html b/docs/prefacio.html
@@ -181,8 +181,8 @@ div.csl-indent {
 <li class="chapter" data-level="4.2.1" data-path="metodologia.html"><a href="metodologia.html#carga-del-conjunto-de-datos"><i class="fa fa-check"></i><b>4.2.1</b> Carga del conjunto de datos</a></li>
 <li class="chapter" data-level="4.2.2" data-path="metodologia.html"><a href="metodologia.html#verificaci%C3%B3n-de-la-lectura"><i class="fa fa-check"></i><b>4.2.2</b> Verificación de la lectura</a></li>
 <li class="chapter" data-level="4.2.3" data-path="metodologia.html"><a href="metodologia.html#conversi%C3%B3n-de-tipos"><i class="fa fa-check"></i><b>4.2.3</b> Conversión de tipos</a></li>
-<li class="chapter" data-level="4.2.4" data-path="metodologia.html"><a href="metodologia.html#identificaci%C3%B3n-de-valores-faltantes"><i class="fa fa-check"></i><b>4.2.4</b> Identificación de valores faltantes</a></li>
-<li class="chapter" data-level="4.2.5" data-path="metodologia.html"><a href="metodologia.html#eliminaci%C3%B3n-de-errores-de-digitaci%C3%B3n-confirmados"><i class="fa fa-check"></i><b>4.2.5</b> Eliminación de errores de digitación confirmados</a></li>
+<li class="chapter" data-level="4.2.4" data-path="metodologia.html"><a href="metodologia.html#eliminaci%C3%B3n-de-errores-de-digitaci%C3%B3n-confirmados"><i class="fa fa-check"></i><b>4.2.4</b> Eliminación de errores de digitación confirmados</a></li>
+<li class="chapter" data-level="4.2.5" data-path="metodologia.html"><a href="metodologia.html#identificaci%C3%B3n-de-valores-faltantes"><i class="fa fa-check"></i><b>4.2.5</b> Identificación de valores faltantes</a></li>
 <li class="chapter" data-level="4.2.6" data-path="metodologia.html"><a href="metodologia.html#advertencias-sobre-inconsistencias-estructurales"><i class="fa fa-check"></i><b>4.2.6</b> Advertencias sobre inconsistencias estructurales</a></li>
 </ul></li>
 </ul></li>

diff --git a/docs/pruebas-de-hipótesis.html b/docs/pruebas-de-hipótesis.html
@@ -181,8 +181,8 @@ div.csl-indent {
 <li class="chapter" data-level="4.2.1" data-path="metodologia.html"><a href="metodologia.html#carga-del-conjunto-de-datos"><i class="fa fa-check"></i><b>4.2.1</b> Carga del conjunto de datos</a></li>
 <li class="chapter" data-level="4.2.2" data-path="metodologia.html"><a href="metodologia.html#verificaci%C3%B3n-de-la-lectura"><i class="fa fa-check"></i><b>4.2.2</b> Verificación de la lectura</a></li>
 <li class="chapter" data-level="4.2.3" data-path="metodologia.html"><a href="metodologia.html#conversi%C3%B3n-de-tipos"><i class="fa fa-check"></i><b>4.2.3</b> Conversión de tipos</a></li>
-<li class="chapter" data-level="4.2.4" data-path="metodologia.html"><a href="metodologia.html#identificaci%C3%B3n-de-valores-faltantes"><i class="fa fa-check"></i><b>4.2.4</b> Identificación de valores faltantes</a></li>
-<li class="chapter" data-level="4.2.5" data-path="metodologia.html"><a href="metodologia.html#eliminaci%C3%B3n-de-errores-de-digitaci%C3%B3n-confirmados"><i class="fa fa-check"></i><b>4.2.5</b> Eliminación de errores de digitación confirmados</a></li>
+<li class="chapter" data-level="4.2.4" data-path="metodologia.html"><a href="metodologia.html#eliminaci%C3%B3n-de-errores-de-digitaci%C3%B3n-confirmados"><i class="fa fa-check"></i><b>4.2.4</b> Eliminación de errores de digitación confirmados</a></li>
+<li class="chapter" data-level="4.2.5" data-path="metodologia.html"><a href="metodologia.html#identificaci%C3%B3n-de-valores-faltantes"><i class="fa fa-check"></i><b>4.2.5</b> Identificación de valores faltantes</a></li>
 <li class="chapter" data-level="4.2.6" data-path="metodologia.html"><a href="metodologia.html#advertencias-sobre-inconsistencias-estructurales"><i class="fa fa-check"></i><b>4.2.6</b> Advertencias sobre inconsistencias estructurales</a></li>
 </ul></li>
 </ul></li>
